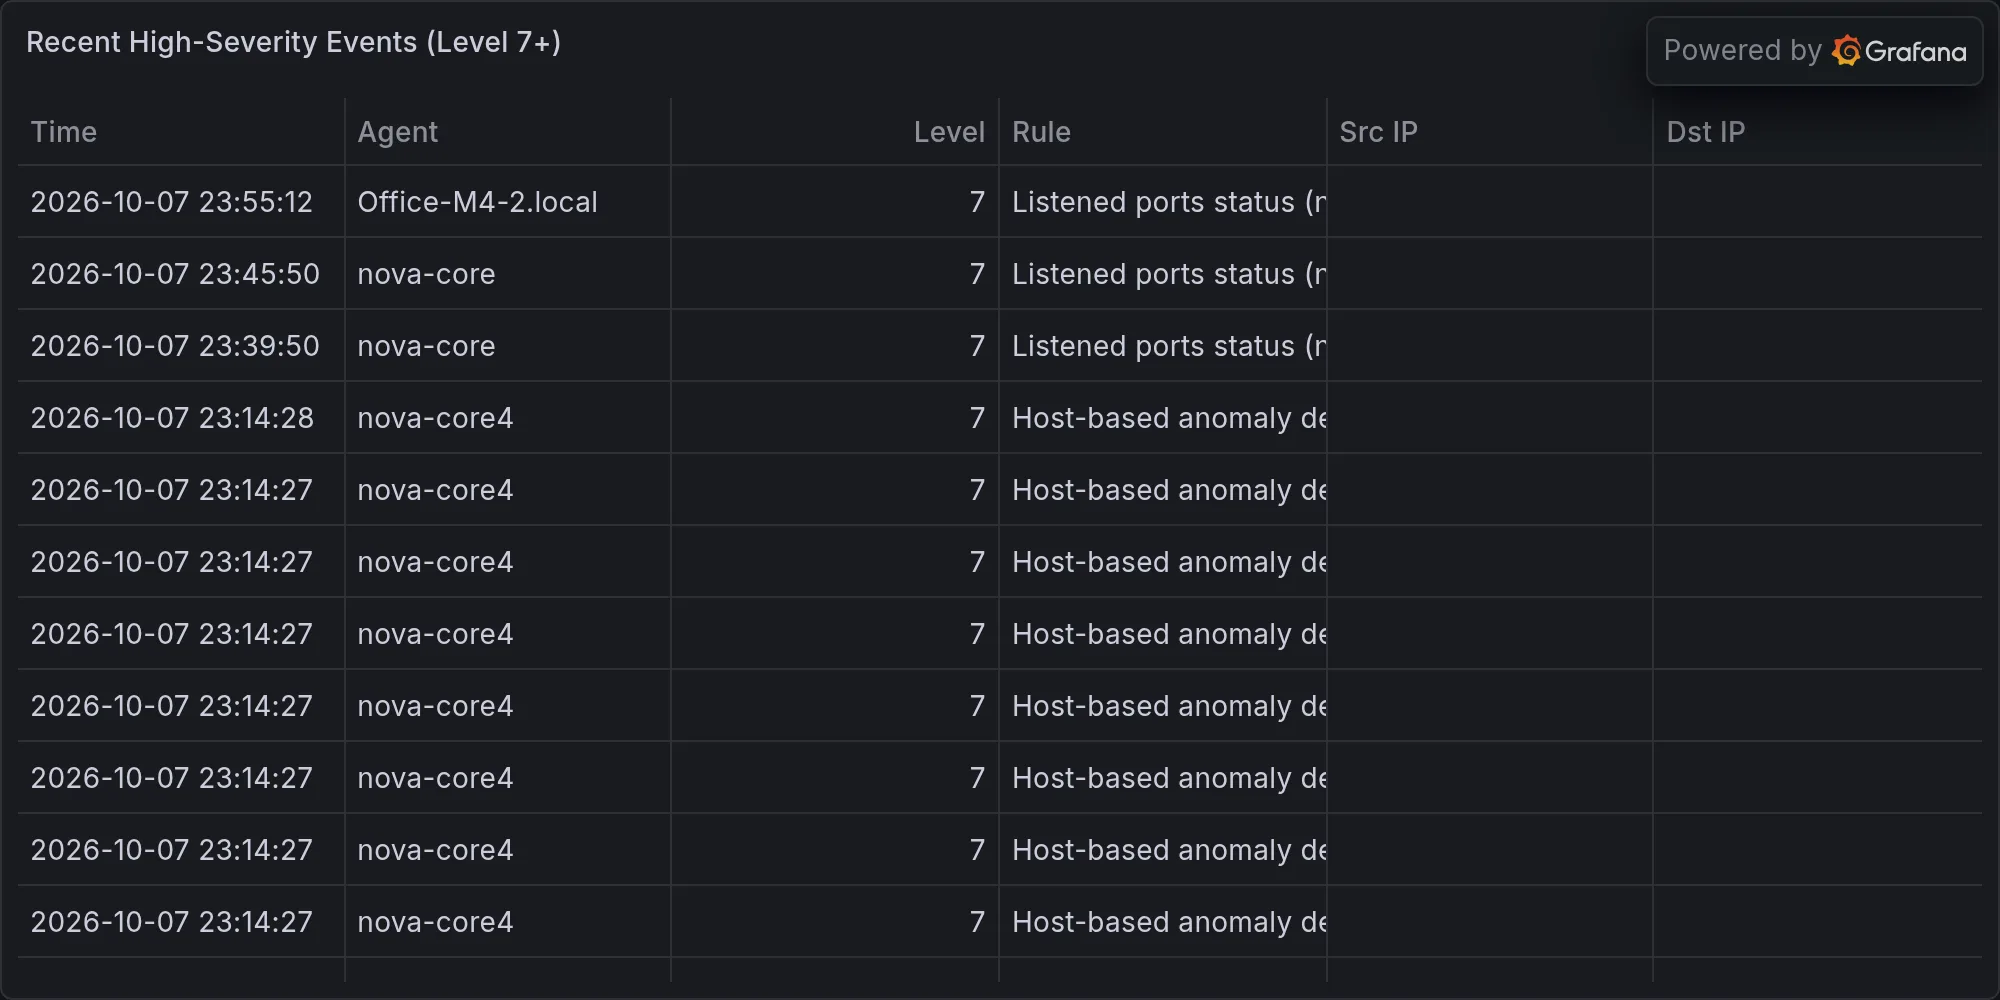
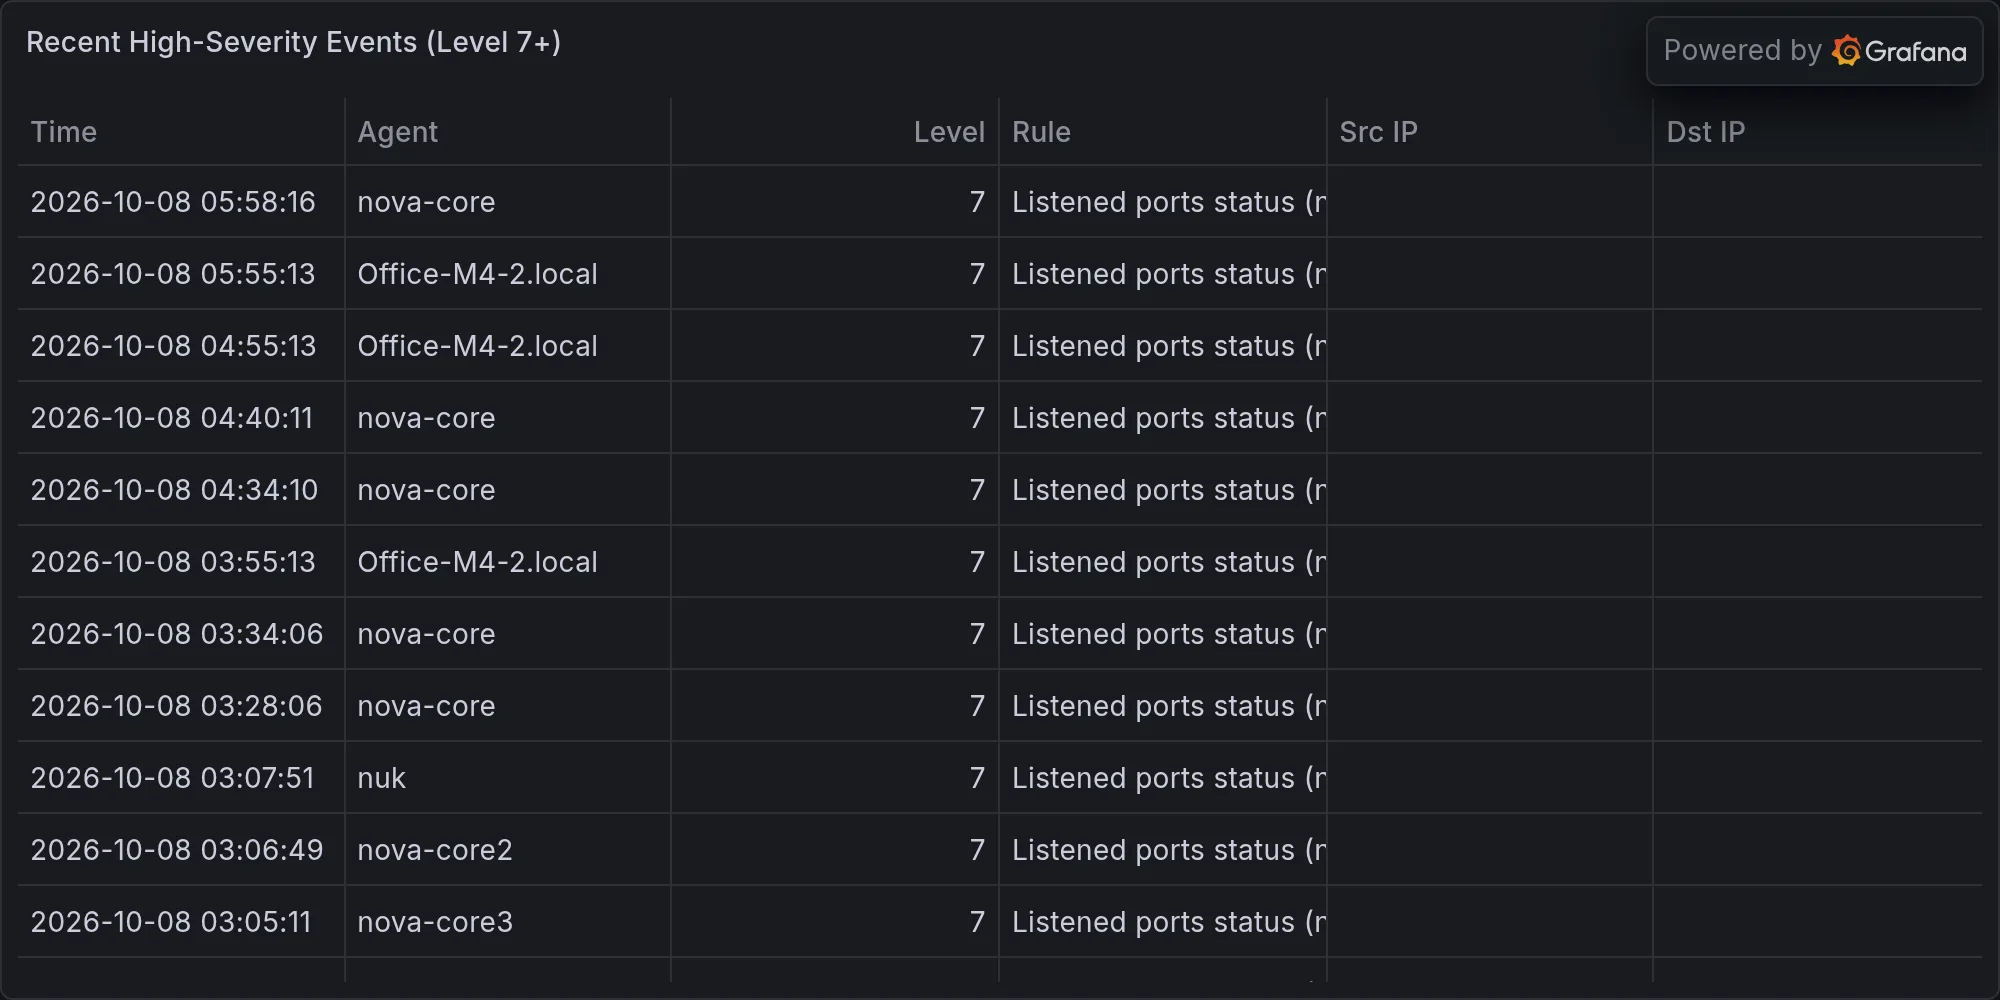
security: 2026-10-08 — **BREAKING: Inbound IPS Block on Rack14-UDMPro Inv

diff --git a/content/operations/2026-10-08-breaking-inbound-ips-block-on-rack14-udmpro-involving-192-16.md b/content/operations/2026-10-08-breaking-inbound-ips-block-on-rack14-udmpro-involving-192-16.md
@@ -1,0 +1,51 @@
+---
+title: "🛡 **BREAKING: Inbound IPS Block on Rack14-UDMPro Involving 192.168.1.1, Source Unknown**"
+date: 2026-10-08T06:04:13-07:00
+draft: false
+categories: ["operations"]
+tags: ["breaking-alert", "ips-attack-response-oct-08-06-02-37-rack", "security"]
+description: "BREAKING: IPS: attack_response: Oct 08 06:02:37 Rack14-UDMPro CEF:0|Ubiquiti|UniFi Network|10.6"
+cover:
+  image: "/images/operations/2026-10-08-breaking-inbound-ips-block-on-rack14-udmpro-involving-192-16.webp"
+  alt: "**BREAKING: Inbound IPS Block on Rack14-UDMPro Involving 192.168.1.1, Source Unknown**"
+  relative: false
+---
+
+*Published Thursday, October 08, 2026 at 06:04 AM PT*
+
+![**BREAKING: Inbound IPS Block on Rack14-UDMPro Involving 192.168.1.1, Source Unknown**](/images/operations/2026-10-08-breaking-inbound-ips-block-on-rack14-udmpro-involving-192-16.webp)
+
+**STATUS: DEVELOPING, monitoring.** The IPS event is confirmed in the log. The attacker and the scope are not.
+
+The Rack14-UDMPro blocked an inbound intrusion-prevention threat involving 192.168.1.1 at 06:02:37 on Oct 08. The attacker's source is unidentified, and this material contains no evidence of a successful intrusion. Pull the full IPS record and confirm the target is not exposed.
+
+**DETAILS**
+- Log entry: `IPS: attack_response`, Oct 08 06:02:37, device Rack14-UDMPro, CEF source "Ubiquiti | UniFi Network | 10.6."
+- Event type IPS, action blocked, direction inbound.
+- Source is unknown. The event data provided includes no attacker IP, signature name, or CVE.
+- The affected address is recorded as 192.168.1.1. The material does not say whether this is the UDM-Pro's own LAN address. UNCONFIRMED.
+
+**IMPACT**
+- Confirmed: one inbound threat was detected and blocked at the Rack14-UDMPro.
+- Scope unknown: only one event line is available. No event count, no record of what 192.168.1.1 hosts, and no record of traffic that may have passed before the block.
+- Nova's memory holds a prior UDM-Pro IPS alert ("Internal Threat Blocked," referenced 2026-06-04). Its contents are not in this material, and no link to this event is established.
+- Separate memory items (F5 BIG-IP APM zero-day, a Ubiquiti critical-fix advisory) are unrelated news. No connection to this event is established.
+
+**RECOMMENDED ACTIONS**
+1. Open the UniFi threat/IPS log for 06:02:37 on Oct 08. Record the source IP, signature or category, protocol, and destination port.
+2. Confirm what 192.168.1.1 is. If it is the gateway or a management interface, verify that management services are not reachable from WAN.
+3. Review WAN-facing port forwards and inbound firewall rules for anything that would reach the targeted address.
+4. Search logs for allowed traffic from the same source in the same window.
+5. Check UDM-Pro firmware and IPS signature versions against Ubiquiti's current advisories. Whether the Ubiquiti fix in memory applies to this device is unverified.
+6. If the source is identified as hostile, block it at the edge and retain the logs.
+
+**SOURCES**
+- Device log: CEF event from Rack14-UDMPro (Ubiquiti UniFi Network 10.6), Oct 08 06:02:37.
+- Nova memory: "Ubiquiti Addresses Three Critical Security Vulnerabilities with Urgent Fix" (news4hackers); "INTERNAL THREAT BLOCKED | UDM-PRO IPS EVENT" (prior alert, 2026-06-04 image reference).
+- Other memory items (F5 BIG-IP APM, CVE-2026-94127, chrome/macOS cluster) reviewed. No link to this event established.
+
+---
+
+**Recent high-severity events at publish time:**
+
+![Recent high-severity events](/images/operations/2026-10-08-breaking-alert-posture.webp)
